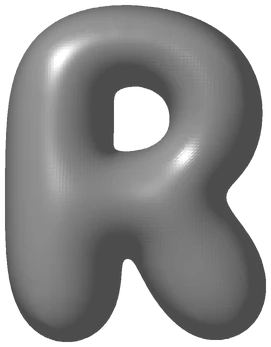
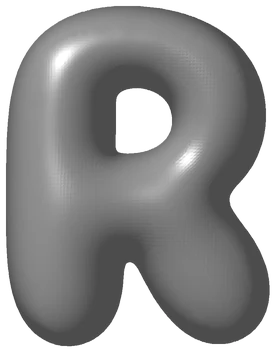
Make all letters the same height in the preview
Each letter is now scaled uniformly to an identical visible height so
tops and bottoms line up. The 3D models differ in height by up to ~17%
(9.3-10.9 units), which made the top edge look uneven.

Claude-Session: https://claude.ai/code/session_019EHk8hqTkq2Vo4NMNY4Tpj

diff --git a/letters/glyphs.js b/letters/glyphs.js
@@ -1,2 +1,2 @@
-// Размеры букв (из 3D-моделей), в долях высоты шрифта. Не редактировать вручную.
-export const GLYPHS = {"A": {"w": 0.9598, "h": 1.0108}, "B": {"w": 0.8715, "h": 1.118}, "C": {"w": 0.8463, "h": 1.0997}, "D": {"w": 0.8961, "h": 1.1087}, "E": {"w": 0.6828, "h": 1.1153}, "F": {"w": 0.6852, "h": 1.0592}, "G": {"w": 0.9126, "h": 1.1166}, "H": {"w": 1.032, "h": 1.0075}, "I": {"w": 0.5009, "h": 1.0719}, "J": {"w": 0.6989, "h": 0.9993}, "K": {"w": 0.8539, "h": 0.9831}, "L": {"w": 0.714, "h": 1.0219}, "M": {"w": 1.1269, "h": 0.9854}, "N": {"w": 0.9537, "h": 0.9588}, "O": {"w": 0.8804, "h": 1.0509}, "P": {"w": 0.7381, "h": 1.0267}, "Q": {"w": 0.8939, "h": 1.049}, "R": {"w": 0.7973, "h": 1.02}, "S": {"w": 0.728, "h": 1.0477}, "T": {"w": 0.7038, "h": 1.0463}, "U": {"w": 0.9215, "h": 1.012}, "V": {"w": 0.8716, "h": 0.9905}, "W": {"w": 1.278, "h": 0.9883}, "X": {"w": 0.8518, "h": 0.9778}, "Y": {"w": 0.7958, "h": 0.9616}, "Z": {"w": 0.6922, "h": 1.0777}};
+// Размеры букв (из 3D-моделей), в em. У всех букв высота одинаковая. Не редактировать вручную.
+export const GLYPHS = {"A": {"w": 0.9824, "h": 1.0353}, "B": {"w": 0.8088, "h": 1.0353}, "C": {"w": 0.7971, "h": 1.0353}, "D": {"w": 0.8382, "h": 1.0353}, "E": {"w": 0.6353, "h": 1.0353}, "F": {"w": 0.6706, "h": 1.0353}, "G": {"w": 0.8471, "h": 1.0353}, "H": {"w": 1.0618, "h": 1.0353}, "I": {"w": 0.4882, "h": 1.0353}, "J": {"w": 0.7265, "h": 1.0353}, "K": {"w": 0.9, "h": 1.0353}, "L": {"w": 0.7235, "h": 1.0353}, "M": {"w": 1.1824, "h": 1.0353}, "N": {"w": 1.0294, "h": 1.0353}, "O": {"w": 0.8677, "h": 1.0353}, "P": {"w": 0.7471, "h": 1.0353}, "Q": {"w": 0.8824, "h": 1.0353}, "R": {"w": 0.8118, "h": 1.0353}, "S": {"w": 0.7206, "h": 1.0353}, "T": {"w": 0.6971, "h": 1.0353}, "U": {"w": 0.9441, "h": 1.0353}, "V": {"w": 0.9118, "h": 1.0353}, "W": {"w": 1.3382, "h": 1.0353}, "X": {"w": 0.9029, "h": 1.0353}, "Y": {"w": 0.8559, "h": 1.0353}, "Z": {"w": 0.6677, "h": 1.0353}};
